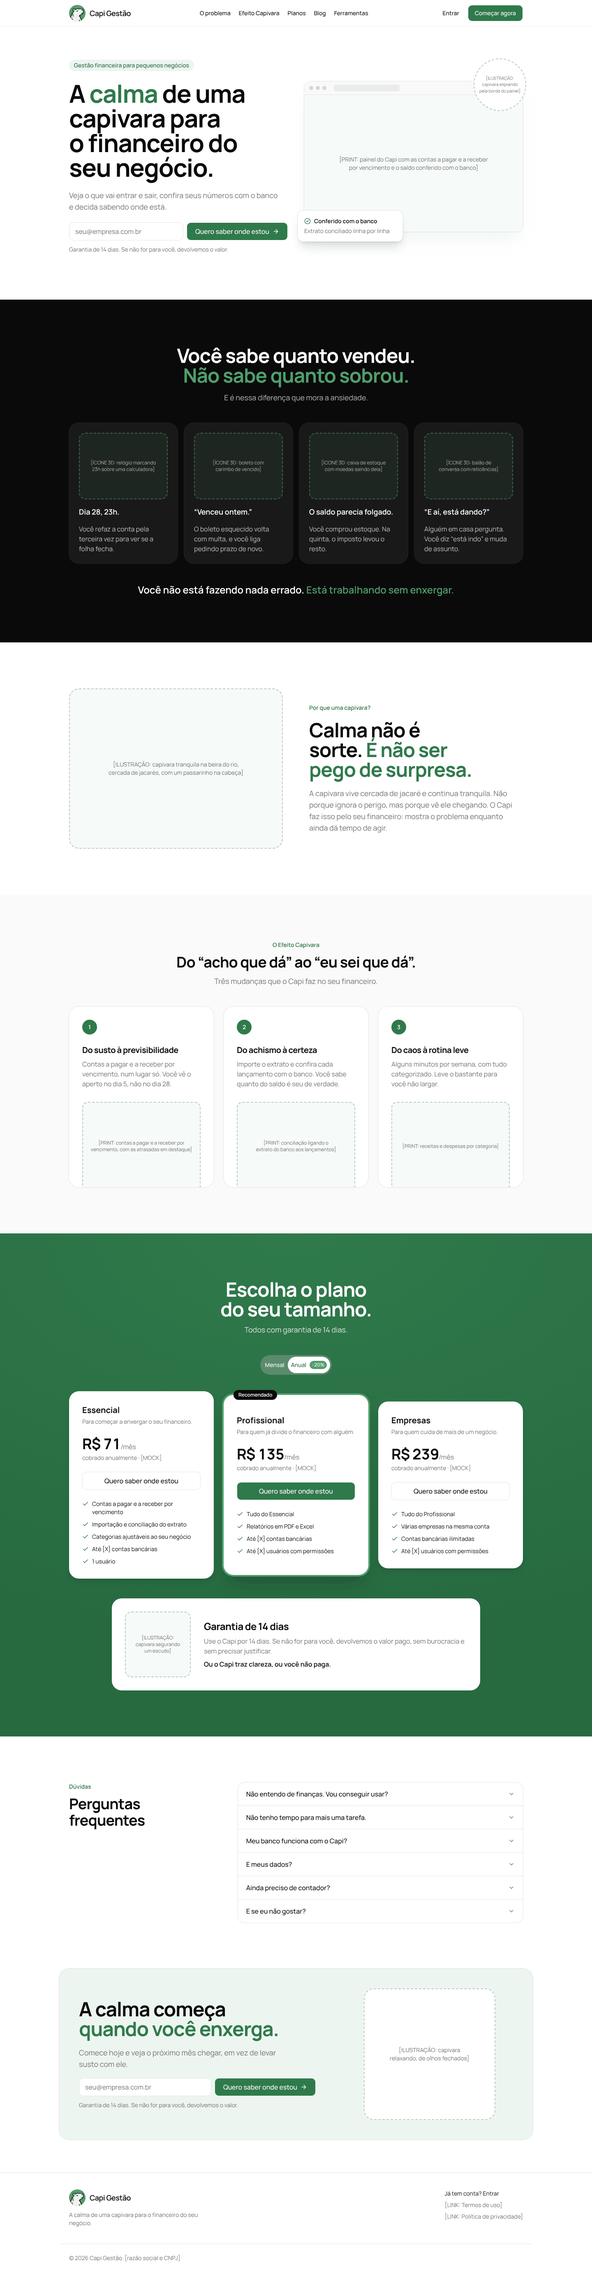
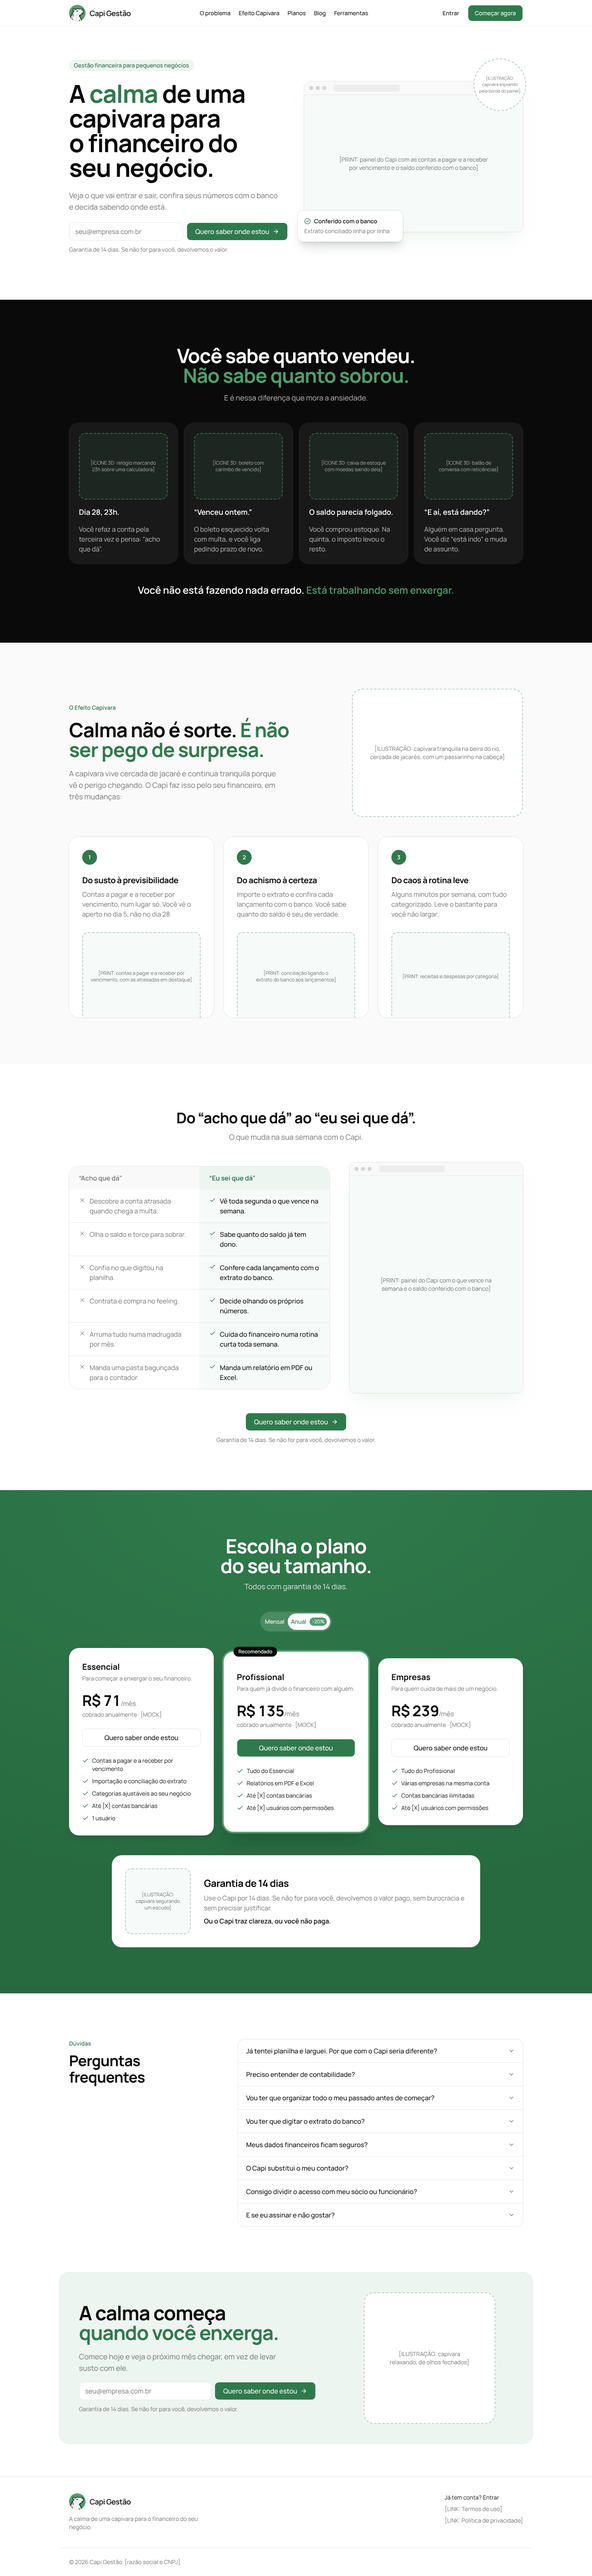
feat: landing reorganizada em AIDA, com seção Antes × Depois
- Atenção: hero sem mudanças.
- Interesse: a dor (a primeira cena agora termina em "acho que dá") e o
  Efeito Capivara, que absorve a seção da capivara ("Calma não é sorte.
  É não ser pego de surpresa.") com a ilustração ao lado do título.
- Desejo: nova seção "Do “acho que dá” ao “eu sei que dá”.", uma tabela
  de 6 linhas antes × depois com print do painel e CTA. Cada linha do
  "depois" usa um recurso que o sistema tem.
- Ação: planos com garantia, FAQ com 8 perguntas focadas nas objeções
  de compra e CTA final.

Claude-Session: https://claude.ai/code/session_01ViKXZaWHpWEN7kvEmURzc2

diff --git a/src/components/landing/landing-page.tsx b/src/components/landing/landing-page.tsx
@@ -1,16 +1,18 @@
 import Link from "next/link"
-import { CircleCheck, LogIn } from "lucide-react"
+import { ArrowRight, Check, CircleCheck, LogIn, X } from "lucide-react"
 
 import { buttonVariants } from "@/components/ui/button"
 import { cn } from "@/lib/utils"
 
-import { EmailCta } from "./email-cta"
+import { EmailCta, GUARANTEE } from "./email-cta"
 import { Faq } from "./faq"
 import { Pricing } from "./pricing"
 import { BrowserFrame, Container, ImagePlaceholder, Logo, SectionHeading, ctaClassName } from "./primitives"
 import { DesktopNav, MobileNav } from "./site-nav"
 
-// Public landing page, shown at / to visitors without a session. Short on
+// Public landing page, shown at / to visitors without a session, laid out as
+// AIDA: attention (hero), interest (pain, Capybara Effect), desire (before ×
+// after) and action (plans, FAQ, final CTA). Short on
 // text on purpose: each block is a title, one line and a visual. [PRINT],
 // [ILUSTRAÇÃO] and [ÍCONE 3D] mark the visuals still to come, at their final
 // aspect ratio; prices are [MOCK]. No testimonials or client numbers.
@@ -27,8 +29,8 @@ export function LandingPage() {
       <main id="conteudo" className="flex-1">
         <Hero />
         <Pain />
-        <Capybara />
         <CapybaraEffect />
+        <BeforeAfter />
         <Plans />
         <Questions />
         <FinalCta />
@@ -113,7 +115,7 @@ function Hero() {
 const PAINS = [
   {
     title: "Dia 28, 23h.",
-    text: "Você refaz a conta pela terceira vez para ver se a folha fecha.",
+    text: "Você refaz a conta pela terceira vez e pensa: “acho que dá”.",
     icon: "relógio marcando 23h sobre uma calculadora",
   },
   {
@@ -165,30 +167,6 @@ function Pain() {
   )
 }
 
-function Capybara() {
-  return (
-    <section aria-labelledby="capivara-title" className="py-20 lg:py-28">
-      <Container className="grid items-center gap-12 lg:grid-cols-2 lg:gap-16">
-        <ImagePlaceholder
-          label="ILUSTRAÇÃO"
-          description="capivara tranquila na beira do rio, cercada de jacarés, com um passarinho na cabeça"
-          className="aspect-[4/3] rounded-3xl"
-        />
-        <div className="flex flex-col gap-5">
-          <p className="text-sm font-semibold text-brand-strong">Por que uma capivara?</p>
-          <h2 id="capivara-title" className="text-3xl font-bold tracking-tight text-balance sm:text-5xl">
-            Calma não é sorte. <span className="text-brand-strong">É não ser pego de surpresa.</span>
-          </h2>
-          <p className="max-w-lg text-lg text-pretty text-muted-foreground">
-            A capivara vive cercada de jacaré e continua tranquila. Não porque ignora o perigo, mas porque vê ele chegando.
-            O Capi faz isso pelo seu financeiro: mostra o problema enquanto ainda dá tempo de agir.
-          </p>
-        </div>
-      </Container>
-    </section>
-  )
-}
-
 const SHIFTS = [
   {
     title: "Do susto à previsibilidade",
@@ -211,12 +189,23 @@ function CapybaraEffect() {
   return (
     <section id="efeito-capivara" aria-labelledby="efeito-capivara-title" className="scroll-mt-16 bg-muted/50 py-20 lg:py-28">
       <Container className="flex flex-col gap-12">
-        <SectionHeading
-          id="efeito-capivara-title"
-          eyebrow="O Efeito Capivara"
-          title="Do “acho que dá” ao “eu sei que dá”."
-          description="Três mudanças que o Capi faz no seu financeiro."
-        />
+        <div className="grid items-center gap-10 lg:grid-cols-[3fr_2fr] lg:gap-16">
+          <div className="flex flex-col gap-5">
+            <p className="text-sm font-semibold text-brand-strong">O Efeito Capivara</p>
+            <h2 id="efeito-capivara-title" className="text-3xl font-bold tracking-tight text-balance sm:text-5xl">
+              Calma não é sorte. <span className="text-brand-strong">É não ser pego de surpresa.</span>
+            </h2>
+            <p className="max-w-xl text-lg text-pretty text-muted-foreground">
+              A capivara vive cercada de jacaré e continua tranquila porque vê o perigo chegando. O Capi faz isso pelo seu
+              financeiro, em três mudanças:
+            </p>
+          </div>
+          <ImagePlaceholder
+            label="ILUSTRAÇÃO"
+            description="capivara tranquila na beira do rio, cercada de jacarés, com um passarinho na cabeça"
+            className="aspect-[4/3] rounded-3xl bg-background"
+          />
+        </div>
         <ol className="grid gap-6 lg:grid-cols-3">
           {SHIFTS.map(({ title, text, image }, index) => (
             <li key={title} className="flex flex-col gap-6 overflow-hidden rounded-3xl bg-background p-6 pb-0 ring-1 ring-foreground/10 sm:p-8 sm:pb-0">
@@ -235,6 +224,80 @@ function CapybaraEffect() {
             </li>
           ))}
         </ol>
+      </Container>
+    </section>
+  )
+}
+
+// Desire: what the week looks like before and after. Every "after" line is a
+// feature the product has today.
+const BEFORE_AFTER = [
+  { before: "Descobre a conta atrasada quando chega a multa.", after: "Vê toda segunda o que vence na semana." },
+  { before: "Olha o saldo e torce para sobrar.", after: "Sabe quanto do saldo já tem dono." },
+  { before: "Confia no que digitou na planilha.", after: "Confere cada lançamento com o extrato do banco." },
+  { before: "Contrata e compra no feeling.", after: "Decide olhando os próprios números." },
+  { before: "Arruma tudo numa madrugada por mês.", after: "Cuida do financeiro numa rotina curta toda semana." },
+  { before: "Manda uma pasta bagunçada para o contador.", after: "Manda um relatório em PDF ou Excel." },
+]
+
+function BeforeAfter() {
+  return (
+    <section id="antes-depois" aria-labelledby="antes-depois-title" className="scroll-mt-16 py-20 lg:py-28">
+      <Container className="flex flex-col gap-12">
+        <SectionHeading
+          id="antes-depois-title"
+          title="Do “acho que dá” ao “eu sei que dá”."
+          description="O que muda na sua semana com o Capi."
+        />
+        <div className="grid items-center gap-10 lg:grid-cols-[3fr_2fr] lg:gap-12">
+          <div className="overflow-hidden rounded-3xl ring-1 ring-foreground/10">
+            <table className="w-full table-fixed text-left text-sm sm:text-base">
+              <caption className="sr-only">Antes e depois do Capi</caption>
+              <thead>
+                <tr>
+                  <th scope="col" className="bg-muted/60 px-4 py-4 font-semibold text-muted-foreground sm:px-6">
+                    &ldquo;Acho que dá&rdquo;
+                  </th>
+                  <th scope="col" className="bg-brand/10 px-4 py-4 font-semibold text-brand-stronger sm:px-6">
+                    &ldquo;Eu sei que dá&rdquo;
+                  </th>
+                </tr>
+              </thead>
+              <tbody className="divide-y">
+                {BEFORE_AFTER.map(({ before, after }) => (
+                  <tr key={before} className="align-top">
+                    <td className="px-4 py-4 text-muted-foreground sm:px-6">
+                      <span className="flex gap-2.5">
+                        <X className="mt-0.5 size-4 shrink-0 text-muted-foreground/70" role="img" aria-label="Antes:" />
+                        {before}
+                      </span>
+                    </td>
+                    <td className="bg-brand/5 px-4 py-4 font-medium sm:px-6">
+                      <span className="flex gap-2.5">
+                        <Check className="mt-0.5 size-4 shrink-0 text-brand-strong" role="img" aria-label="Depois:" />
+                        {after}
+                      </span>
+                    </td>
+                  </tr>
+                ))}
+              </tbody>
+            </table>
+          </div>
+          <BrowserFrame>
+            <ImagePlaceholder
+              label="PRINT"
+              description="painel do Capi com o que vence na semana e o saldo conferido com o banco"
+              className="aspect-[4/3] rounded-none border-0 bg-brand/5 lg:aspect-[4/5]"
+            />
+          </BrowserFrame>
+        </div>
+        <div className="flex flex-col items-center gap-3">
+          <Link href="/signup" className={cn(buttonVariants(), ctaClassName)}>
+            Quero saber onde estou
+            <ArrowRight aria-hidden />
+          </Link>
+          <p className="text-center text-sm text-muted-foreground">{GUARANTEE}</p>
+        </div>
       </Container>
     </section>
   )

diff --git a/src/components/landing/faq.tsx b/src/components/landing/faq.tsx
@@ -4,28 +4,40 @@ import { Collapsible, CollapsibleContent, CollapsibleTrigger } from "@/component
 
 const QUESTIONS = [
   {
-    question: "Não entendo de finanças. Vou conseguir usar?",
-    answer: "Sim. Você só precisa saber o que entrou, o que saiu e o que vai vencer. O Capi organiza o resto.",
+    question: "Já tentei planilha e larguei. Por que com o Capi seria diferente?",
+    answer:
+      "A planilha depende de você digitar tudo e lembrar de atualizar. No Capi, o extrato do banco entra pronto e você só confere. É menos trabalho, e por isso fica mais fácil manter. Se mesmo assim não virar hábito, você tem 14 dias para pedir o dinheiro de volta.",
   },
   {
-    question: "Não tenho tempo para mais uma tarefa.",
-    answer: "São alguns minutos por semana, no lugar das horas que o susto do fim do mês já toma.",
+    question: "Preciso entender de contabilidade?",
+    answer:
+      "Não. Se você sabe o que vendeu e o que pagou, sabe usar o Capi. Você vê o que entrou, o que saiu e o que vai vencer, organizado em categorias que você mesmo define.",
   },
   {
-    question: "Meu banco funciona com o Capi?",
-    answer: "Se ele exporta o extrato em OFX, sim, e a maioria dos bancos exporta.",
+    question: "Vou ter que organizar todo o meu passado antes de começar?",
+    answer: "Não. Você cadastra suas contas, importa o extrato do mês e lança o que vai vencer. O resto pode entrar aos poucos.",
   },
   {
-    question: "E meus dados?",
-    answer: "Os dados de cada empresa ficam separados, e só acessa quem você convidar.",
+    question: "Vou ter que digitar o extrato do banco?",
+    answer:
+      "Não. Você baixa o extrato em OFX no internet banking e importa no Capi. Se importar o mesmo arquivo duas vezes, nada se repete.",
   },
   {
-    question: "Ainda preciso de contador?",
-    answer: "Sim. Ele cuida do fiscal; o Capi cuida da sua visão do dia a dia.",
+    question: "Meus dados financeiros ficam seguros?",
+    answer: "Os dados de cada empresa ficam separados, e só acessa quem você convidar, com a permissão que você escolher.",
   },
   {
-    question: "E se eu não gostar?",
-    answer: "Você tem 14 dias para pedir o dinheiro de volta.",
+    question: "O Capi substitui o meu contador?",
+    answer:
+      "Não, e nem tenta. O contador cuida dos impostos e das obrigações. O Capi dá a você a visão do dia a dia, e os relatórios em PDF e Excel facilitam a conversa com ele.",
+  },
+  {
+    question: "Consigo dividir o acesso com meu sócio ou funcionário?",
+    answer: "Sim. Você convida quem quiser e define o que cada pessoa pode ver e fazer.",
+  },
+  {
+    question: "E se eu assinar e não gostar?",
+    answer: "Você tem 14 dias. Se não for para você, devolvemos o valor pago, sem burocracia e sem precisar justificar.",
   },
 ]
 
